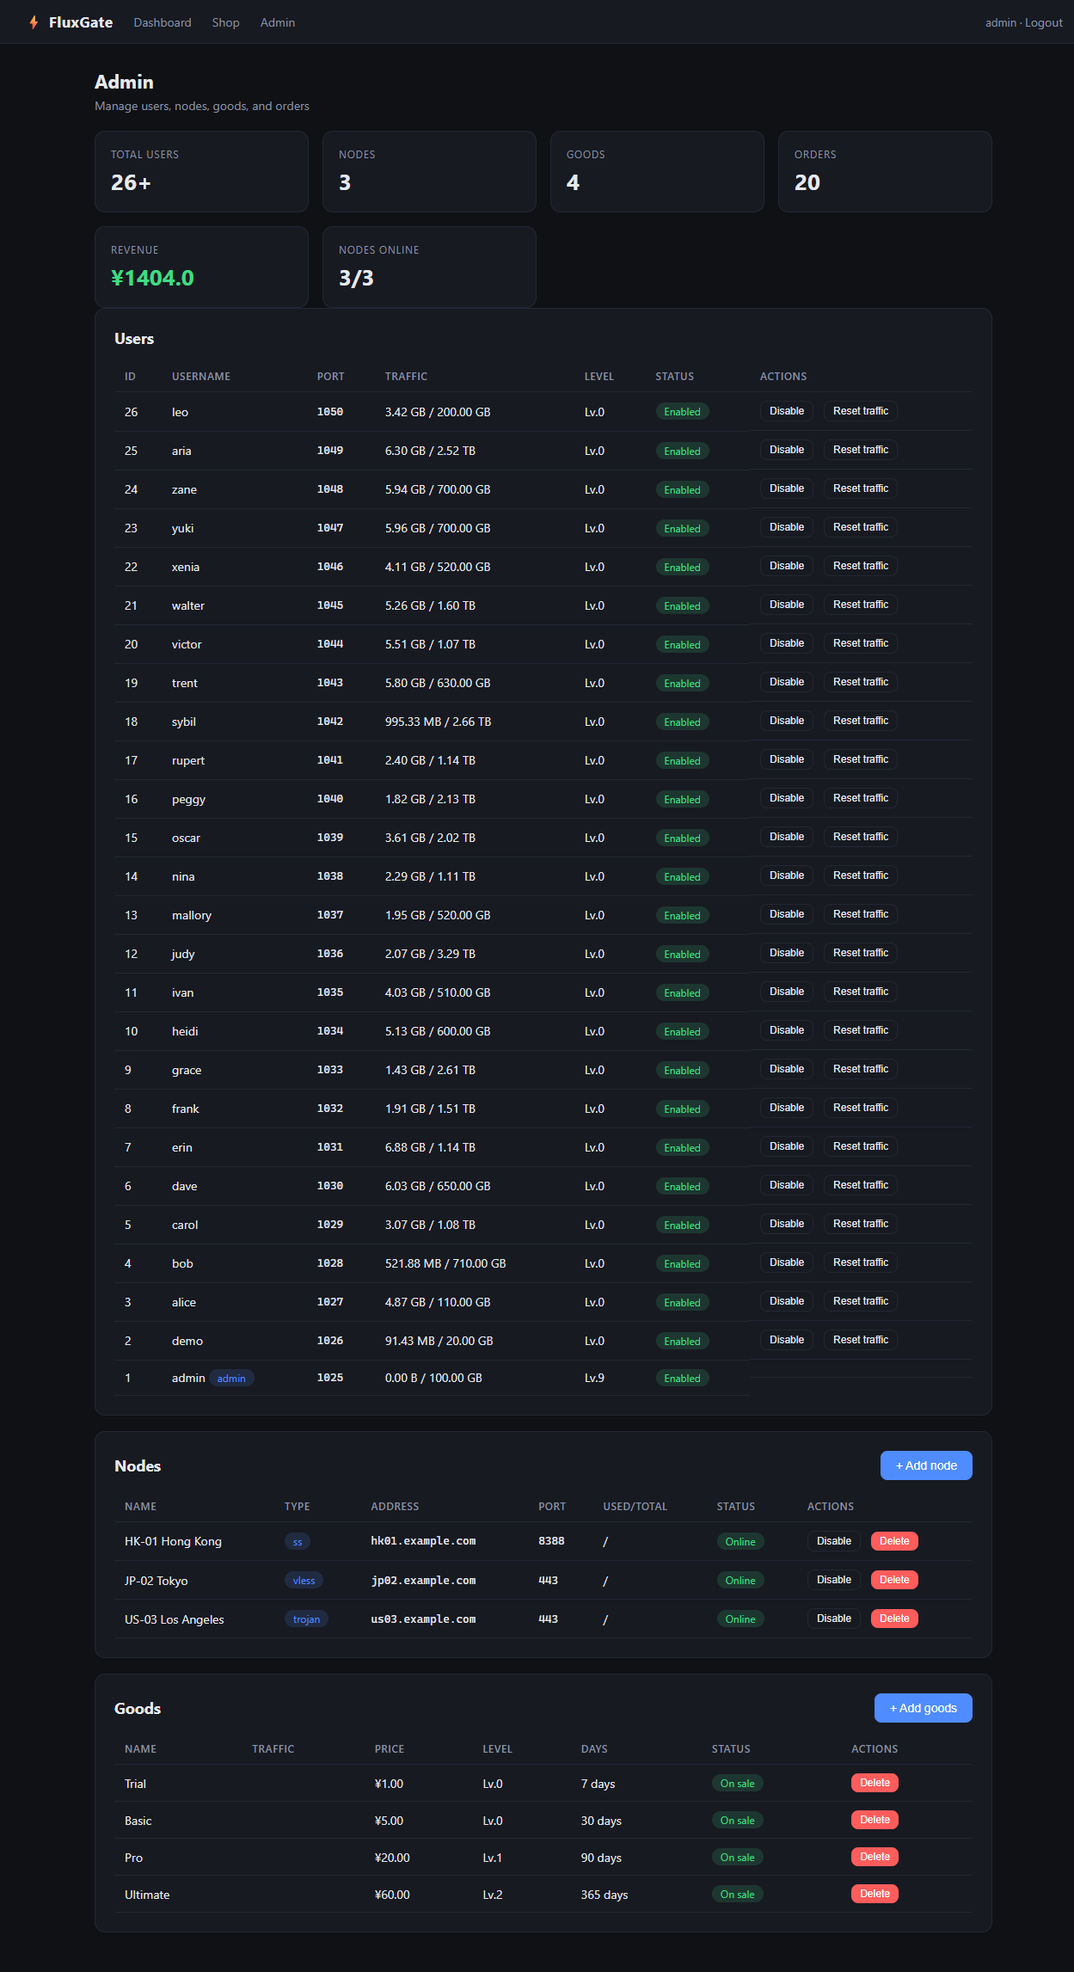
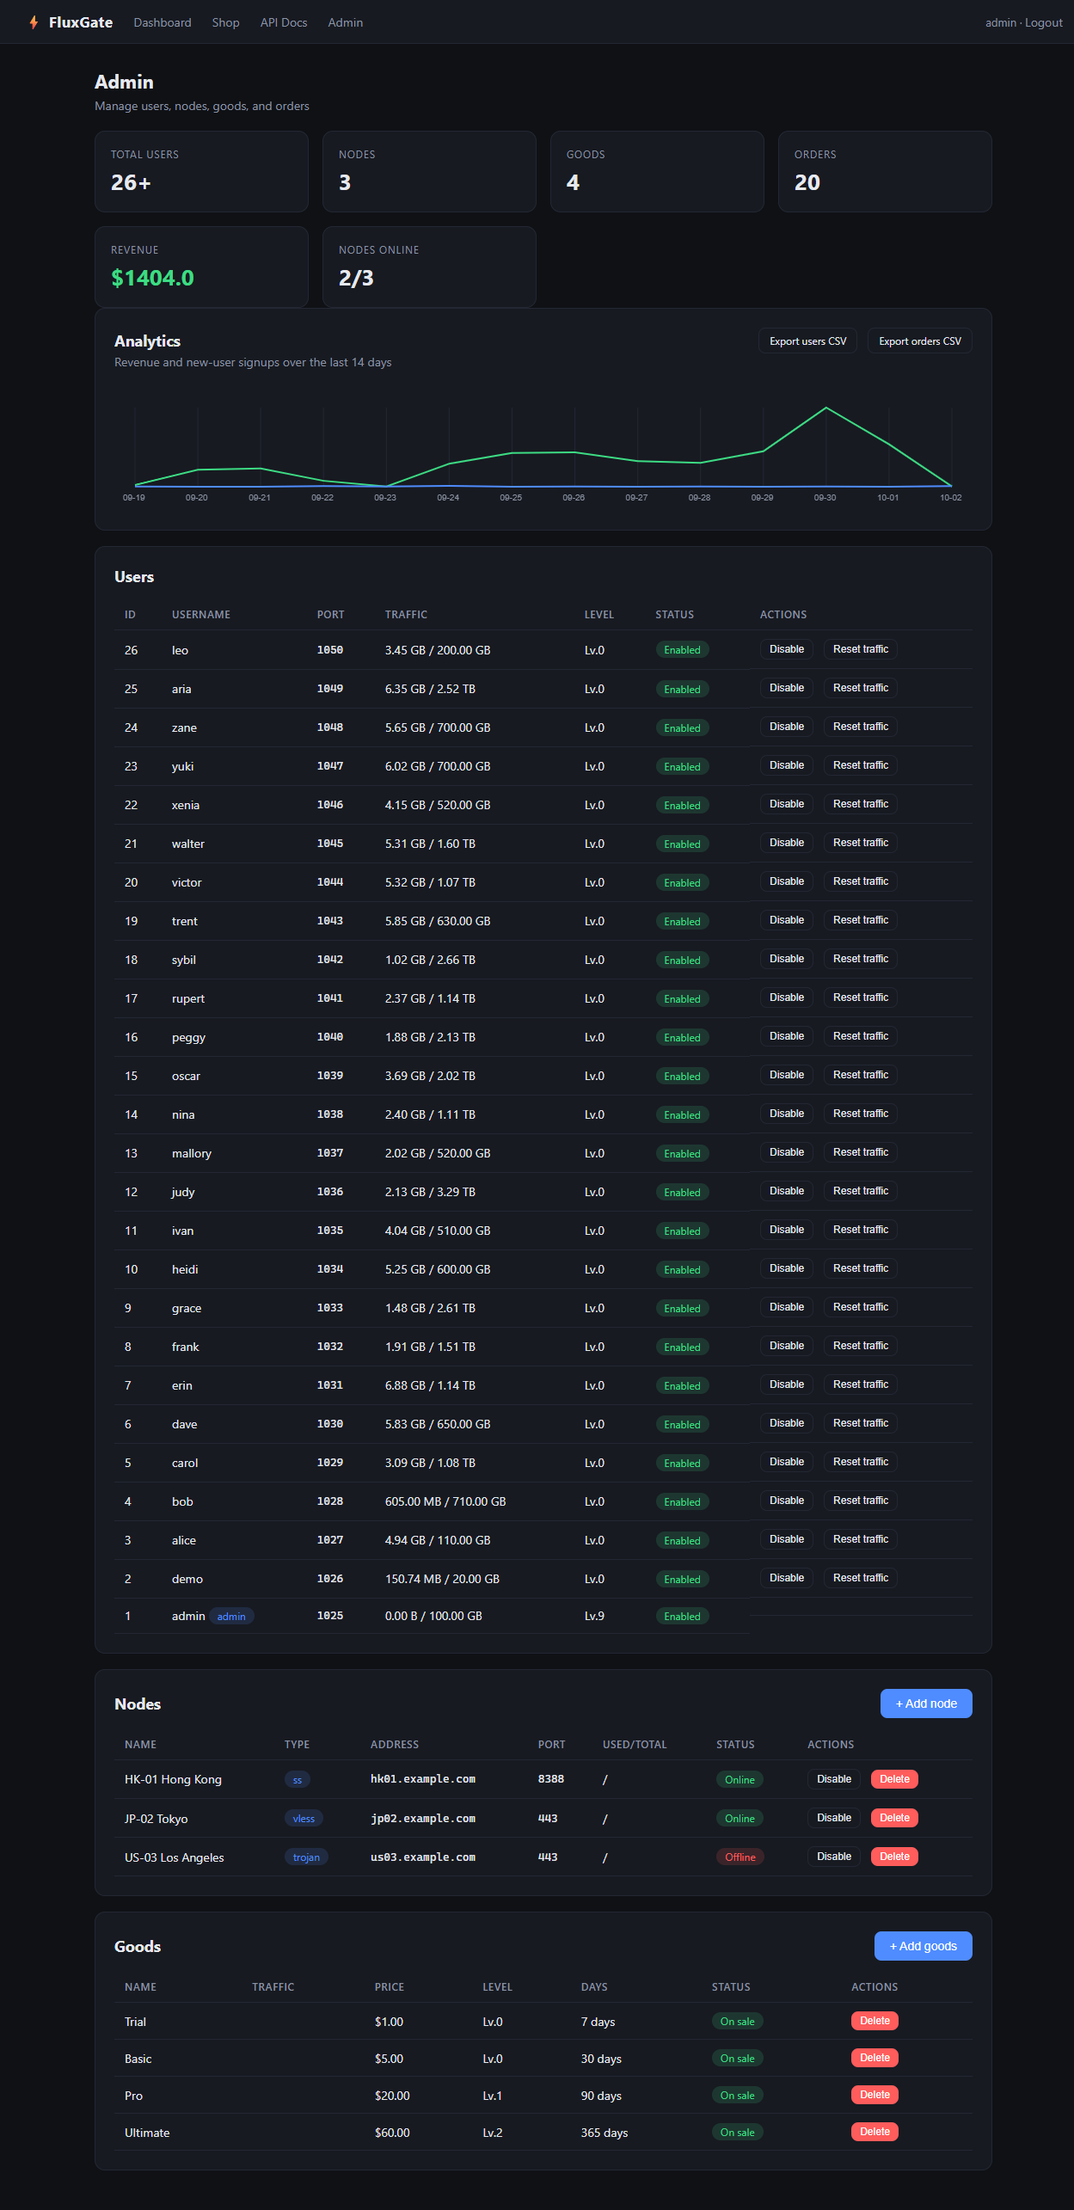
USD currency, Grafana stack, API keys, node uptime, password change, CodeQL+Dependabot, fresh screenshots

diff --git a/fluxgate/templates/dashboard.html b/fluxgate/templates/dashboard.html
@@ -7,7 +7,7 @@
   <div class="stat"><div class="label">Remaining</div><div class="value green">{{ user.human_remain_traffic }}</div></div>
   <div class="stat"><div class="label">Used</div><div class="value">{{ user.human_used_traffic }}</div></div>
   <div class="stat"><div class="label">Total</div><div class="value">{{ user.human_total_traffic }}</div></div>
-  <div class="stat"><div class="label">Balance</div><div class="value">¥{{ '%.2f'|format(user.balance or 0) }}</div></div>
+  <div class="stat"><div class="label">Balance</div><div class="value">${{ '%.2f'|format(user.balance or 0) }}</div></div>
 </div>
 
 <div class="card">
@@ -69,6 +69,23 @@
   </div>
 </div>
 
+<div class="card">
+  <h2>Account</h2>
+  <div class="row" style="align-items:flex-start">
+    <div style="flex:1">
+      <label>API key (for subscription links)</label>
+      <div class="codebox" id="apikey">{{ user.api_key }}</div>
+      <button class="btn ghost" style="margin-top:8px" onclick="regenerateKey()">Regenerate API key</button>
+    </div>
+    <div style="flex:1">
+      <label>Change password</label>
+      <input id="pw_current" type="password" placeholder="Current password" style="margin-bottom:8px">
+      <input id="pw_new" type="password" placeholder="New password (min 6)" style="margin-bottom:8px">
+      <button class="btn ghost" onclick="changePw()">Change password</button>
+    </div>
+  </div>
+</div>
+
 <script>
 function copyText(t){ navigator.clipboard.writeText(t).then(()=>alert('Copied!')); }
 function checkin(){
@@ -78,6 +95,16 @@ function genInvite(){
   fetch('/api/gen/invitecode',{method:'POST',body:new URLSearchParams({num:1})}).then(r=>r.json()).then(d=>{
     if(d.codes) alert('Invite code: '+d.codes[0]); else alert(d.title||'Failed');
   });
+}
+function regenerateKey(){
+  fetch('/api/user/api_key',{method:'POST'}).then(r=>r.json()).then(d=>{
+    if(d.api_key){ document.getElementById('apikey').textContent = d.api_key; alert('API key regenerated!'); }
+  });
+}
+function changePw(){
+  fetch('/api/user/password',{method:'POST',headers:{'Content-Type':'application/json'},
+    body:JSON.stringify({current_password:document.getElementById('pw_current').value, new_password:document.getElementById('pw_new').value})})
+    .then(r=>r.json()).then(d=>{ alert(d.title||'Done'); if(d.status==='success') location.reload(); });
 }
 // live traffic chart (7-day upload/download)
 fetch('/api/user/stats/traffic_chart').then(r=>r.json()).then(d=>{

diff --git a/fluxgate/templates/admin.html b/fluxgate/templates/admin.html
@@ -8,7 +8,7 @@
   <div class="stat"><div class="label">Nodes</div><div class="value">{{ nodes|length }}</div></div>
   <div class="stat"><div class="label">Goods</div><div class="value">{{ goods|length }}</div></div>
   <div class="stat"><div class="label">Orders</div><div class="value">{{ orders|length }}</div></div>
-  <div class="stat"><div class="label">Revenue</div><div class="value green">¥{{ revenue }}</div></div>
+  <div class="stat"><div class="label">Revenue</div><div class="value green">${{ revenue }}</div></div>
   <div class="stat"><div class="label">Nodes online</div><div class="value">{{ online_nodes }}/{{ nodes|length }}</div></div>
 </div>
 
@@ -90,7 +90,7 @@
     <div class="row">
       <input style="width:140px" id="g_name" placeholder="Name">
       <input style="width:100px" id="g_gb" placeholder="Traffic GB" value="100">
-      <input style="width:80px" id="g_money" placeholder="Price ¥" value="5">
+      <input style="width:80px" id="g_money" placeholder="Price $" value="5">
       <input style="width:80px" id="g_days" placeholder="Days" value="30">
       <button class="btn green" onclick="addGoods()">Save</button>
     </div>
@@ -101,7 +101,7 @@
     <tr>
       <td>{{ g.name }}</td>
       <td>{{ g.human_transfer }}</td>
-      <td>¥{{ '%.2f'|format(g.money) }}</td>
+      <td>${{ '%.2f'|format(g.money) }}</td>
       <td>Lv.{{ g.level }}</td>
       <td>{{ g.days }} days</td>
       <td>{% if g.status == 1 %}<span class="badge green">On sale</span>{% else %}<span class="badge red">Off sale</span>{% endif %}</td>

diff --git a/fluxgate/templates/shop.html b/fluxgate/templates/shop.html
@@ -8,7 +8,7 @@
   <div class="card" style="display:flex;flex-direction:column;gap:8px">
     <div class="row" style="justify-content:space-between">
       <h2 style="margin:0;font-size:16px">{{ g.name }}</h2>
-      <span class="badge green">¥{{ '%.2f'|format(g.money) }}</span>
+      <span class="badge green">${{ '%.2f'|format(g.money) }}</span>
     </div>
     <p style="color:var(--muted);font-size:13px">{{ g.content }}</p>
     <div style="color:var(--text);font-size:14px">{{ g.human_transfer }} · {{ g.days }} days · Lv.{{ g.level }}</div>
@@ -25,7 +25,7 @@
     {% for o in orders %}
     <tr>
       <td class="mono">{{ o.out_trade_no }}</td>
-      <td>¥{{ '%.2f'|format(o.amount) }}</td>
+      <td>${{ '%.2f'|format(o.amount) }}</td>
       <td>
         {% if o.status == 0 %}<span class="badge">Pending</span>
         {% elif o.status == 1 %}<span class="badge">Paid</span>

diff --git a/tests/test_app.py b/tests/test_app.py
@@ -513,9 +513,17 @@ def test_bot_commands():
 def test_bot_demo_mode_runs(app):
     """bot.py main() in DEMO_MODE (no token) prints, doesn't crash."""
     import subprocess
+    import tempfile as _tf
+    tmpdb = _tf.NamedTemporaryFile(suffix=".db", delete=False)
+    tmpdb.close()
+    env = dict(os.environ, DATABASE_URL=f"sqlite:///{tmpdb.name}")
     r = subprocess.run([sys.executable, "bot.py"], capture_output=True, text=True,
-                       cwd=r"C:\Users\priya\Desktop\sspanel-flask", timeout=60)
-    assert r.returncode == 0
+                       cwd=r"C:\Users\priya\Desktop\sspanel-flask", timeout=60, env=env)
+    try:
+        os.unlink(tmpdb.name)
+    except PermissionError:
+        pass
+    assert r.returncode == 0, r.stderr[-500:]
     assert "DEMO_MODE" in r.stdout
 
 
@@ -584,6 +592,55 @@ def test_telegram_notify_fires(app):
     finally:
         _ur.urlopen = orig
         srv.shutdown()
+
+
+# ---------- API keys / password / uptime ----------
+
+def test_subscribe_via_api_key(app, client):
+    with app.app_context():
+        user = User.query.filter_by(username="demo").first()
+        key = user.api_key
+        assert key
+        r = client.get(f"/api/subscribe?api_key={key}&sub_type=ss")
+        assert r.status_code == 200
+        assert "ss://" in __import__("base64").b64decode(r.get_data()).decode()
+
+
+def test_regenerate_api_key(app, client):
+    _login(client)
+    with app.app_context():
+        old = User.query.filter_by(username="demo").first().api_key
+    r = client.post("/api/user/api_key")
+    assert r.get_json()["status"] == "success"
+    with app.app_context():
+        new = User.query.filter_by(username="demo").first().api_key
+        assert new != old
+
+
+def test_change_password(app, client):
+    _login(client)
+    r = client.post("/api/user/password", json={"current_password": "wrong", "new_password": "newpass1"})
+    assert r.status_code == 400
+    r = client.post("/api/user/password", json={"current_password": "demo123", "new_password": "newpass1"})
+    assert r.get_json()["status"] == "success"
+    # old password no longer works
+    client.get("/logout")
+    r = client.post("/login", data={"username": "demo", "password": "demo123"})
+    assert "Invalid username or password" in r.get_data(as_text=True)
+    r = client.post("/login", data={"username": "demo", "password": "newpass1"})
+    assert r.status_code == 302
+
+
+def test_node_uptime(app, client):
+    with app.app_context():
+        node = ProxyNode.query.first()
+        assert node.uptime() == "0m"  # no heartbeat yet
+        assert node.first_seen is None
+    client.post("/api/proxy_configs/1", json={"data": []}, headers={"X-API-Token": "test-token"})
+    with app.app_context():
+        node = ProxyNode.query.first()
+        assert node.first_seen is not None
+        assert node.last_seen is not None
 
 
 if __name__ == "__main__":

diff --git a/fluxgate/api.py b/fluxgate/api.py
@@ -41,9 +41,12 @@ def _api_authorized():
 @bp.route("/subscribe")
 def subscribe():
     token = request.args.get("token", "")
-    if not token:
-        return "not found", 404
-    user = User.query.filter_by(id=int(token)).first() if token.isdigit() else None
+    api_key = request.args.get("api_key", "")
+    user = None
+    if api_key:
+        user = User.query.filter_by(api_key=api_key).first()
+    elif token and token.isdigit():
+        user = User.query.filter_by(id=int(token)).first()
     if not user:
         return "not found", 404
     sub_type = request.args.get("sub_type", "ss")
@@ -86,6 +89,8 @@ def proxy_configs(node_id):
         return jsonify(node.get_proxy_configs())
     # POST: traffic report from backend — also acts as heartbeat
     node.last_seen = datetime.utcnow()
+    if not node.first_seen:
+        node.first_seen = node.last_seen
     data = request.get_json(force=True, silent=True) or {}
     for item in data.get("data", []):
         uid = item.get("user_id")
@@ -117,6 +122,36 @@ def user_settings():
         db.session.commit()
         return jsonify({"status": "success", "title": "Updated!", "subtitle": "Reconfigure your client with the new password."})
     return jsonify({"status": "error", "title": "Update failed!", "subtitle": "No new password provided."})
+
+
+@bp.route("/user/password", methods=["POST"])
+def change_password():
+    """Change the account login password (requires current password)."""
+    user = _current_user()
+    if not user:
+        return jsonify({"error": "login required"}), 401
+    data = request.get_json(force=True, silent=True) or request.form
+    current = data.get("current_password", "")
+    new = data.get("new_password", "")
+    if not user.check_password(current):
+        return jsonify({"status": "error", "title": "Wrong current password!"}), 400
+    if len(new) < 6:
+        return jsonify({"status": "error", "title": "New password too short (min 6 chars)!"}), 400
+    user.set_password(new)
+    db.session.commit()
+    return jsonify({"status": "success", "title": "Password changed!"})
+
+
+@bp.route("/user/api_key", methods=["POST"])
+def regenerate_api_key():
+    """Regenerate the user's API key (used for subscription links)."""
+    user = _current_user()
+    if not user:
+        return jsonify({"error": "login required"}), 401
+    from .models import _long_rand
+    user.api_key = _long_rand(32)
+    db.session.commit()
+    return jsonify({"status": "success", "api_key": user.api_key})
 
 
 @bp.route("/user/stats/traffic_chart")
@@ -222,7 +257,7 @@ def _notify_telegram(order):
 
     text = (f"💰 Order paid\n"
             f"Order: {order.out_trade_no}\n"
-            f"Amount: ¥{order.amount}\n"
+            f"Amount: ${order.amount}\n"
             f"User: #{order.user_id}")
     payload = json.dumps({"chat_id": chat_id, "text": text}).encode()
 

diff --git a/fluxgate/proxy.py b/fluxgate/proxy.py
@@ -31,6 +31,7 @@ class ProxyNode(db.Model):
     enlarge_scale = db.Column(db.Float, default=1.0)
     sequence = db.Column(db.Integer, default=0)
     last_seen = db.Column(db.DateTime, nullable=True)  # heartbeat from backend
+    first_seen = db.Column(db.DateTime, nullable=True)  # first heartbeat (uptime)
 
     # ss-specific
     ss_method = db.Column(db.String(32), default="aes-256-gcm")
@@ -90,7 +91,23 @@ class ProxyNode(db.Model):
         d["human_used"] = traffic_format(self.used_traffic or 0)
         d["human_total"] = traffic_format(self.total_traffic or 0)
         d["online"] = self.is_online()
+        d["uptime"] = self.uptime()
         return d
+
+    def uptime(self):
+        """Human uptime string since first heartbeat (e.g. '3d 4h')."""
+        from datetime import datetime
+        if not self.first_seen:
+            return "0m"
+        delta = datetime.utcnow() - self.first_seen
+        days, rem = divmod(int(delta.total_seconds()), 86400)
+        hours, rem = divmod(rem, 3600)
+        mins = rem // 60
+        if days:
+            return f"{days}d {hours}h"
+        if hours:
+            return f"{hours}h {mins}m"
+        return f"{mins}m"
 
     def is_online(self):
         """Node is online if a backend reported traffic within the last 5 min."""

diff --git a/fluxgate/models.py b/fluxgate/models.py
@@ -53,6 +53,7 @@ class User(db.Model):
     last_use_time = db.Column(db.DateTime, nullable=True)
     enable = db.Column(db.Boolean, default=True)
     is_admin = db.Column(db.Boolean, default=False)
+    api_key = db.Column(db.String(64), default=_long_rand, unique=True)
     created_at = db.Column(db.DateTime, default=datetime.utcnow)
 
     # ---- class methods (mirror original) ----
@@ -173,6 +174,7 @@ class User(db.Model):
             "used_percentage": self.used_percentage,
             "sub_link": self.sub_link,
             "ref_link": self.ref_link,
+            "api_key": self.api_key,
             "enable": self.enable,
             "is_admin": self.is_admin,
         }

diff --git a/README.md b/README.md
@@ -4,7 +4,7 @@
 
 > Self-hosted proxy management panel — users, nodes, subscriptions, and billing in one process.
 
-![Python](https://img.shields.io/badge/Python-3.11-blue) ![Flask](https://img.shields.io/badge/Flask-3.1-black) ![SQLAlchemy](https://img.shields.io/badge/SQLAlchemy-3.1-green) ![tests](https://img.shields.io/badge/tests-45%2F45-passing-brightgreen) ![coverage](https://img.shields.io/badge/coverage-87%25-brightgreen) ![license](https://img.shields.io/badge/license-GPL--3.0-blue) ![docker](https://img.shields.io/badge/docker-ready-2496ed) [![CI](https://github.com/scar8969/fluxgate/actions/workflows/ci.yml/badge.svg)](https://github.com/scar8969/fluxgate/actions/workflows/ci.yml) [![Docker](https://github.com/scar8969/fluxgate/actions/workflows/docker.yml/badge.svg)](https://github.com/scar8969/fluxgate/actions/workflows/docker.yml)
+![Python](https://img.shields.io/badge/Python-3.11-blue) ![Flask](https://img.shields.io/badge/Flask-3.1-black) ![SQLAlchemy](https://img.shields.io/badge/SQLAlchemy-3.1-green) ![tests](https://img.shields.io/badge/tests-49%2F49-passing-brightgreen) ![coverage](https://img.shields.io/badge/coverage-86%25-brightgreen) ![license](https://img.shields.io/badge/license-GPL--3.0-blue) ![docker](https://img.shields.io/badge/docker-ready-2496ed) [![CI](https://github.com/scar8969/fluxgate/actions/workflows/ci.yml/badge.svg)](https://github.com/scar8969/fluxgate/actions/workflows/ci.yml) [![Docker](https://github.com/scar8969/fluxgate/actions/workflows/docker.yml/badge.svg)](https://github.com/scar8969/fluxgate/actions/workflows/docker.yml) [![CodeQL](https://github.com/scar8969/fluxgate/actions/workflows/codeql.yml/badge.svg)](https://github.com/scar8969/fluxgate/actions/workflows/codeql.yml)
 
 **FluxGate** is a self-hosted management panel for proxy services. Users register with invite codes, buy traffic packages, and get subscription links for any client. Admins manage nodes, goods, and orders from a built-in dashboard. Everything runs in a single Python process — no Redis, no Celery, no external services.
 
@@ -52,6 +52,9 @@ Proxy panels are either abandoned, bloated, or locked behind paid SaaS. FluxGate
 - 🔔 **Webhooks** — `order.paid` events on completed payments
 - 🤖 **Telegram bot** — check traffic, check in, get subscriptions from chat
 - 💳 **Stripe payments** — test-mode Checkout Sessions (provider pattern)
+- 🔑 **API keys** — per-user keys for subscription links
+- 🔐 **Password change** — self-service account security
+- 📡 **Grafana stack** — docker-compose with Prometheus + Grafana dashboard
 - 📚 **API docs** — built-in `/api/docs` page
 - 👑 **Admin dashboard** — CRUD for users/nodes/goods, revenue stats
 
@@ -149,6 +152,7 @@ One-click deploys: [Render](render.yaml) or [Railway](railway.json). Both use gu
 | Method | Path | Description |
 |---|---|---|
 | GET | `/api/subscribe?token=<id>&sub_type=ss` | subscription links (ss/v2ray/trojan/clash) |
+| GET | `/api/subscribe?api_key=<key>&sub_type=ss` | subscription links via API key |
 | GET | `/api/subscribe/qr?token=<id>&sub_type=ss` | QR code PNG of subscription URL |
 | GET | `/api/metrics` | Prometheus metrics |
 | GET | `/api/stream` | live SSE stream (traffic + node status, login) |
@@ -156,6 +160,8 @@ One-click deploys: [Render](render.yaml) or [Railway](railway.json). Both use gu
 | GET | `/api/proxy_configs/<node_id>` | node config for backends (X-API-Token auth) |
 | POST | `/api/proxy_configs/<node_id>` | traffic report + heartbeat from backends |
 | POST | `/api/user/settings` | change ss password |
+| POST | `/api/user/password` | change account password |
+| POST | `/api/user/api_key` | regenerate API key |
 | GET | `/api/user/stats/traffic_chart` | per-node traffic chart |
 | GET | `/api/user/stats/ref_chart` | referral chart |
 | POST | `/api/checkin` | daily check-in traffic reward |
@@ -221,7 +227,10 @@ Measured with `bench.py` against a local instance (500 requests, 20 concurrent, 
 - [x] GHCR multi-arch Docker image
 - [x] Telegram bot + order notifications
 - [x] Stripe payment adapter (test mode)
+- [x] API keys + password change
+- [x] Grafana + Prometheus stack
 - [x] Auto-release workflow
+- [x] CodeQL + Dependabot
 - [x] Docker + CI
 - [ ] Real Alipay integration
 - [ ] Multi-language i18n
@@ -233,7 +242,7 @@ Measured with `bench.py` against a local instance (500 requests, 20 concurrent, 
 .venv/Scripts/python -m pytest tests/ -v
 ```
 
-45 tests covering: seed data, invite-code registration, login/logout, daily check-in, traffic overflow auto-disable, subscription generation (ss/v2ray/clash), level gating, order lifecycle, payment callback, API auth, admin-only routes, admin CRUD, node heartbeat, admin analytics, CSV exports, login rate limiting, QR codes, Prometheus metrics, webhooks, API docs, SSE stream, Telegram bot commands, payment providers, Telegram notifications, page rendering.
+49 tests covering: seed data, invite-code registration, login/logout, daily check-in, traffic overflow auto-disable, subscription generation (ss/v2ray/clash), level gating, order lifecycle, payment callback, API auth, admin-only routes, admin CRUD, node heartbeat + uptime, admin analytics, CSV exports, login rate limiting, QR codes, Prometheus metrics, webhooks, API docs, SSE stream, Telegram bot commands, payment providers, Telegram notifications, API keys, password change, page rendering.
 
 ## License
 

diff --git a/CODE_OF_CONDUCT.md b/CODE_OF_CONDUCT.md
@@ -1,0 +1,35 @@
+# Contributor Covenant Code of Conduct
+
+## Our Pledge
+
+We as members, contributors, and leaders pledge to make participation in our
+community a harassment-free experience for everyone, regardless of age, body
+size, visible or invisible disability, ethnicity, sex characteristics, gender
+identity and expression, level of experience, education, socio-economic status,
+nationality, personal appearance, race, religion, or sexual identity and
+orientation.
+
+## Our Standards
+
+Examples of behavior that contributes to a positive environment:
+- Using welcoming and inclusive language
+- Being respectful of differing viewpoints and experiences
+- Gracefully accepting constructive criticism
+- Focusing on what is best for the community
+
+Examples of unacceptable behavior:
+- The use of sexualized language or imagery
+- Trolling, insulting/derogatory comments, and personal or political attacks
+- Public or private harassment
+- Publishing others' private information without explicit permission
+
+## Enforcement
+
+Instances of abusive, harassing, or otherwise unacceptable behavior may be
+reported to the community leaders. All complaints will be reviewed and
+investigated promptly and fairly.
+
+## Attribution
+
+This Code of Conduct is adapted from the [Contributor Covenant](https://www.contributor-covenant.org),
+version 2.1.

diff --git a/CHANGELOG.md b/CHANGELOG.md
@@ -5,6 +5,16 @@ All notable changes to FluxGate.
 ## [Unreleased]
 
 ### Added
+- USD currency (was ¥)
+- Grafana dashboard JSON + Prometheus/Grafana docker-compose stack
+- Per-user API keys (subscribe via api_key)
+- Node uptime tracking (first_seen)
+- Self-service password change
+- Dependabot, CodeQL, CODE_OF_CONDUCT, FUNDING
+
+## [0.4.0] - 2026-10-02
+
+### Added
 - Telegram bot (`bot.py`) — /link /traffic /checkin /subscribe /stats, DEMO_MODE
 - Telegram order-paid notifications (TELEGRAM_BOT_TOKEN + CHAT_ID)
 - Stripe payment adapter (test mode Checkout Sessions, provider pattern)
